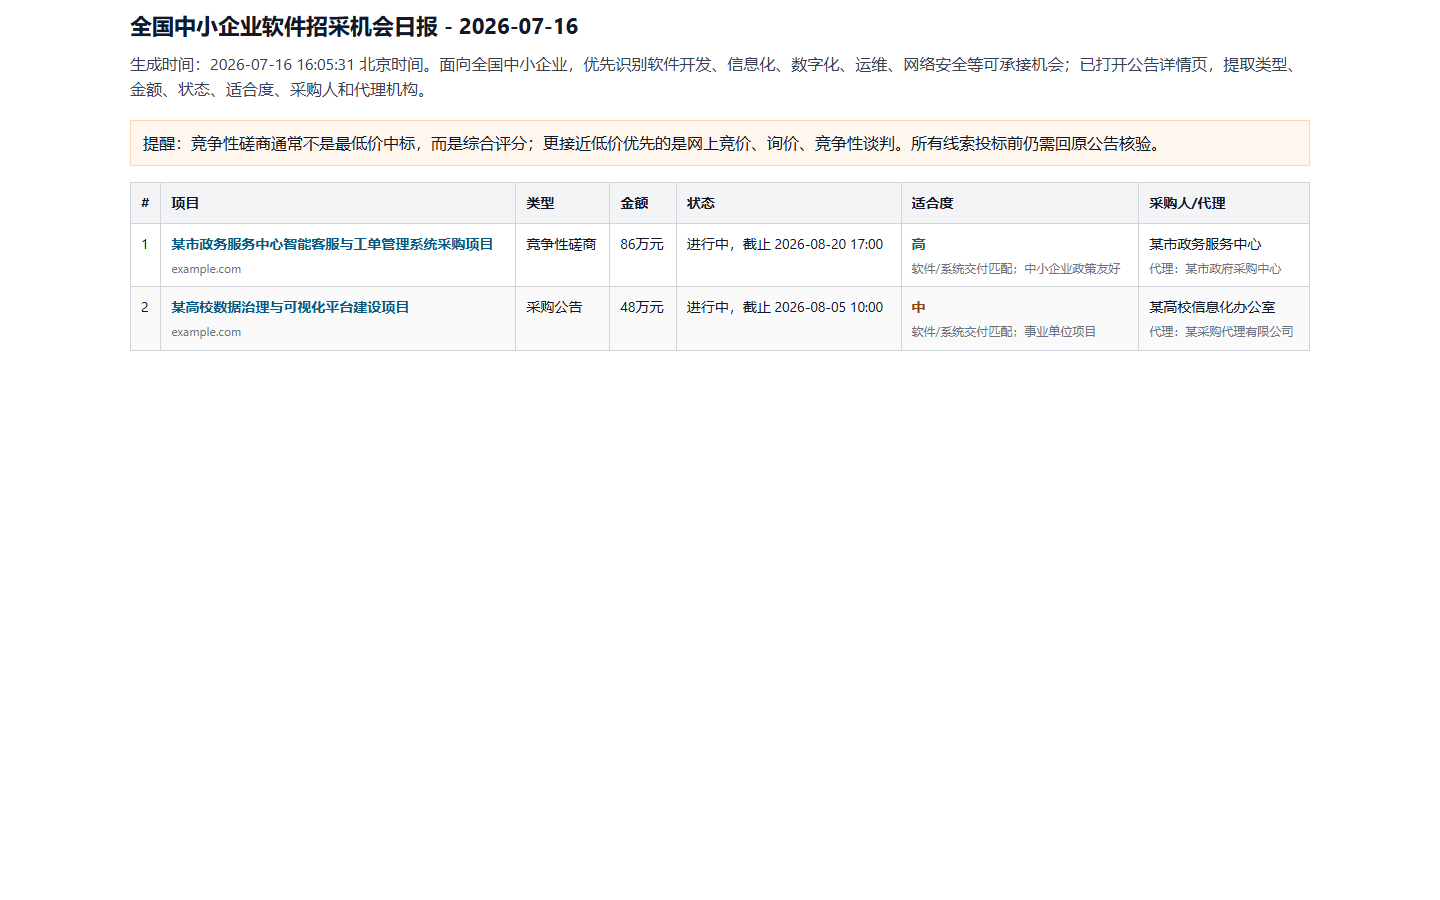
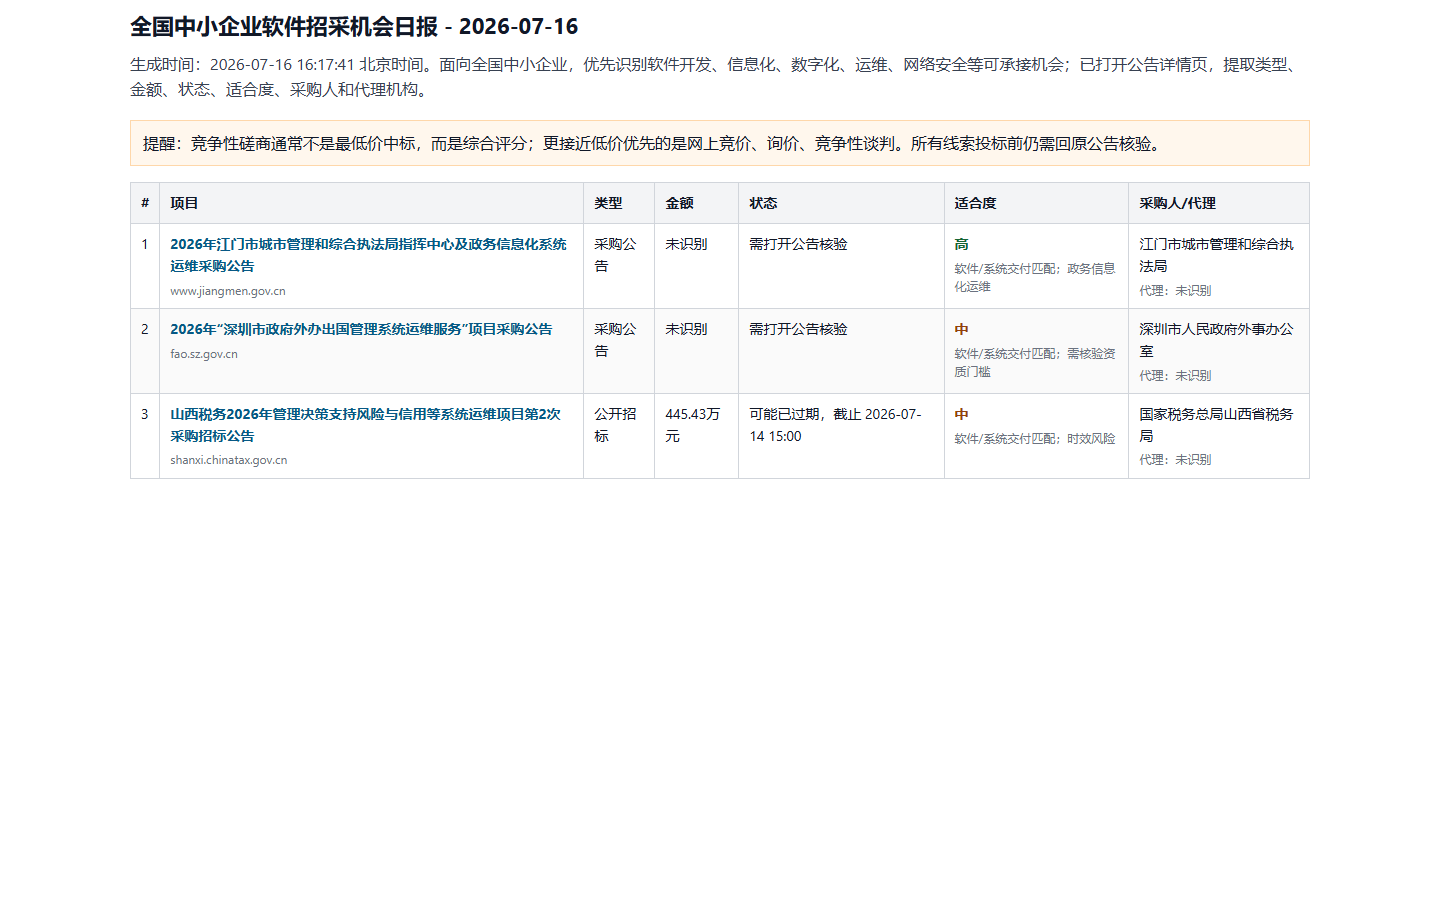
Use public tender examples and add commercial contact

Changed region(s): [[0.0938, 0.2178, 0.9062, 0.5289], [0.0938, 0.4356, 0.6562, 0.5289], [0.2188, 0.0622, 0.25, 0.0933]]

diff --git a/guiyang-tender-monitor/scripts/tender_monitor.py b/guiyang-tender-monitor/scripts/tender_monitor.py
@@ -218,14 +218,15 @@ def page_to_text(page: str) -> str:
     return re.sub(r"\s+", " ", text).strip()
 
 
-def direct_source_items() -> list[dict]:
+def direct_source_items(max_sources: int | None = None) -> list[dict]:
     items: list[dict] = []
     anchor_pattern = re.compile(
         r"<a\b[^>]*href=[\"'](?P<href>[^\"']+)[\"'][^>]*>(?P<title>.*?)</a>",
         re.IGNORECASE | re.DOTALL,
     )
     date_pattern = re.compile(r"20\d{2}[-年/.]\d{1,2}[-月/.]\d{1,2}日?")
-    for source_name, url in DIRECT_SOURCES:
+    sources = DIRECT_SOURCES[:max_sources] if max_sources else DIRECT_SOURCES
+    for source_name, url in sources:
         try:
             page = decode_page(fetch_url(url, timeout=25))
         except Exception as exc:  # noqa: BLE001
@@ -515,10 +516,10 @@ def is_actionable_project(item: dict) -> bool:
     return True
 
 
-def discover(days: int, limit_per_query: int) -> list[dict]:
+def discover(days: int, limit_per_query: int, max_queries: int | None = None, max_direct_sources: int | None = None) -> list[dict]:
     seen: set[str] = set()
     results: list[dict] = []
-    for item in direct_source_items():
+    for item in direct_source_items(max_sources=max_direct_sources):
         if not is_actionable_project(item):
             continue
         key = normalize_url(item.get("url", ""))
@@ -531,7 +532,8 @@ def discover(days: int, limit_per_query: int) -> list[dict]:
         if item["score"] >= 8:
             results.append(enrich_item(item))
 
-    for query in SEARCH_QUERIES:
+    queries = SEARCH_QUERIES[:max_queries] if max_queries else SEARCH_QUERIES
+    for query in queries:
         try:
             items = bing_rss(query, count=limit_per_query)
         except Exception as exc:  # noqa: BLE001
@@ -610,6 +612,72 @@ def demo_items() -> list[dict]:
         },
     ]
     return samples
+
+
+def public_example_items() -> list[dict]:
+    """Return curated real public tender links for reproducible public screenshots."""
+    return [
+        {
+            "title": "2026年江门市城市管理和综合执法局指挥中心及政务信息化系统运维采购公告",
+            "url": "https://www.jiangmen.gov.cn/bmpd/jmscsglhzhzfj/zwgk/tzgg/content/post_3493509.html",
+            "snippet": "公开采购公告。采购内容包括智慧化城市管理信息系统、供水用水一体化服务管理平台、城市节水管理信息系统、智慧排水管理信息系统等系统运维服务。",
+            "published": "2026-05-19",
+            "query": "public-example",
+            "score": 36,
+            "reasons": ["政务信息化", "系统运维", "采购公告", "公开网页"],
+            "type": "采购公告",
+            "amount": "未识别",
+            "dates": ["2026-05-19"],
+            "deadlines": {},
+            "buyer": "江门市城市管理和综合执法局",
+            "agency": "未识别",
+            "status": "需打开公告核验",
+            "suitability": "高",
+            "suitability_note": "软件/系统交付匹配；政务信息化运维",
+            "detail_fetch": "公开网页样例",
+            "detail_excerpt": "来源为公开政府网站公告，用于展示项目报告效果。",
+        },
+        {
+            "title": "2026年“深圳市政府外办出国管理系统运维服务”项目采购公告",
+            "url": "https://fao.sz.gov.cn/xxgk/tzgg/content/post_1635173.html",
+            "snippet": "公开采购公告。为保障深圳智慧外事管理服务系统安全、稳定、高效运行，采购专业运维服务。",
+            "published": "2025-12-01",
+            "query": "public-example",
+            "score": 34,
+            "reasons": ["系统", "运维", "政府采购", "公开网页"],
+            "type": "采购公告",
+            "amount": "未识别",
+            "dates": ["2025-12-01"],
+            "deadlines": {},
+            "buyer": "深圳市人民政府外事办公室",
+            "agency": "未识别",
+            "status": "需打开公告核验",
+            "suitability": "中",
+            "suitability_note": "软件/系统交付匹配；需核验资质门槛",
+            "detail_fetch": "公开网页样例",
+            "detail_excerpt": "来源为公开政府网站公告，用于展示项目报告效果。",
+        },
+        {
+            "title": "山西税务2026年管理决策支持风险与信用等系统运维项目第2次采购招标公告",
+            "url": "https://shanxi.chinatax.gov.cn/son/detail/cz-11404-2828-1822059",
+            "snippet": "公开招标公告。采购内容包括基础软件运维、应用软件运维和相关系统运行保障。",
+            "published": "2026-06-23",
+            "query": "public-example",
+            "score": 32,
+            "reasons": ["系统运维", "公开招标", "税务系统", "公开网页"],
+            "type": "公开招标",
+            "amount": "445.43万元",
+            "dates": ["2026-07-14 15:00"],
+            "deadlines": {"response_deadline": "2026-07-14 15:00"},
+            "buyer": "国家税务总局山西省税务局",
+            "agency": "未识别",
+            "status": "可能已过期，截止 2026-07-14 15:00",
+            "suitability": "中",
+            "suitability_note": "软件/系统交付匹配；时效风险",
+            "detail_fetch": "公开网页样例",
+            "detail_excerpt": "来源为公开政府网站公告，用于展示项目报告效果。",
+        },
+    ]
 
 
 def normalize_url(url: str) -> str:
@@ -879,13 +947,26 @@ def main(argv: list[str] | None = None) -> int:
     parser.add_argument("--output-dir", default=str(DEFAULT_OUTPUT_DIR))
     parser.add_argument("--days", type=int, default=14, help="Reserved freshness window for report context.")
     parser.add_argument("--limit-per-query", type=int, default=10)
+    parser.add_argument("--max-queries", type=int, help="Limit search queries for quick real-data runs.")
+    parser.add_argument("--max-direct-sources", type=int, help="Limit direct sources for quick real-data runs.")
     parser.add_argument("--demo", action="store_true", help="Use sanitized sample data and skip network fetching.")
+    parser.add_argument("--public-examples", action="store_true", help="Use curated real public tender links for screenshots.")
     parser.add_argument("--send-email", action="store_true")
     parser.add_argument("--no-email", action="store_true")
     args = parser.parse_args(argv)
 
     output_dir = Path(args.output_dir)
-    items = demo_items() if args.demo else discover(days=args.days, limit_per_query=args.limit_per_query)
+    if args.demo:
+        items = demo_items()
+    elif args.public_examples:
+        items = public_example_items()
+    else:
+        items = discover(
+            days=args.days,
+            limit_per_query=args.limit_per_query,
+            max_queries=args.max_queries,
+            max_direct_sources=args.max_direct_sources,
+        )
     md_path, json_path, html_path, report, html_body = make_report(items, output_dir)
     print(f"Report written: {md_path}")
     print(f"Data written: {json_path}")

diff --git a/README.md b/README.md
@@ -5,6 +5,7 @@
 [![Python](https://img.shields.io/badge/Python-3.9%2B-3776AB.svg)](#安装与使用)
 [![Focus](https://img.shields.io/badge/focus-SME%20tender%20monitoring-111111.svg)](#核心能力)
 [![GEO](https://img.shields.io/badge/GEO-llms.txt%20ready-B3261E.svg)](llms.txt)
+[![License](https://img.shields.io/badge/license-CC%20BY--NC%204.0-111111.svg)](#license)
 
 > 这个项目不是简单抓取招标公告，而是面向中小企业做“机会发现、适合度判断、风险提示、日报推送”的招投标线索雷达。
 
@@ -94,6 +95,12 @@ python guiyang-tender-monitor/scripts/tender_monitor.py --output-dir ./reports -
 python guiyang-tender-monitor/scripts/tender_monitor.py --demo --output-dir ./reports-demo --no-email
 ```
 
+使用真实公开招标信息快速验证：
+
+```powershell
+python guiyang-tender-monitor/scripts/tender_monitor.py --public-examples --output-dir ./reports-public --no-email
+```
+
 在 Codex 中可以这样调用：
 
 ```text
@@ -132,7 +139,7 @@ QQ 邮箱应使用 SMTP 授权码，不要使用网页登录密码。
 
 ## 运行成功示例
 
-以下截图由 `--demo` 模式生成，使用脱敏样例数据，不包含真实客户资料或私有招投标信息。
+以下截图由公开网页中的真实招投标/采购公告链接生成，展示日报的 HTML 输出效果。公开招标公告本身为公开信息，截图不包含客户私有资料、SMTP 配置或内部跟进记录。
 
 ![全国中小企业软件招采机会日报运行截图](assets/demo-report-success.png)
 
@@ -166,3 +173,22 @@ QQ 邮箱应使用 SMTP 授权码，不要使用网页登录密码。
 - ICP 备案号：黔ICP备2023010920号-4
 
 贵州安然智行科技有限责任公司聚焦 AI、软件开发、数字化系统、交通与行业信息化等方向。该 Skill 的目标是把公开招投标信息转化为可每日查看、可快速跟进的业务线索，节约人工检索时间。
+
+## License
+
+本项目采用 [CC BY-NC 4.0](LICENSE) 许可证。
+
+个人使用、学习、研究与非商业项目可以直接使用。
+
+公开发布衍生作品时，请注明来源。
+
+商业用途需要单独授权，请联系作者。
+
+## 交流与支持
+
+- 联系作者：1690069811
+- 网站：[www.gzarzx.com](https://www.gzarzx.com)
+
+加入招投标智能体交流群：
+
+![招投标智能体交流群二维码](assets/wechat-group-qrcode.png)